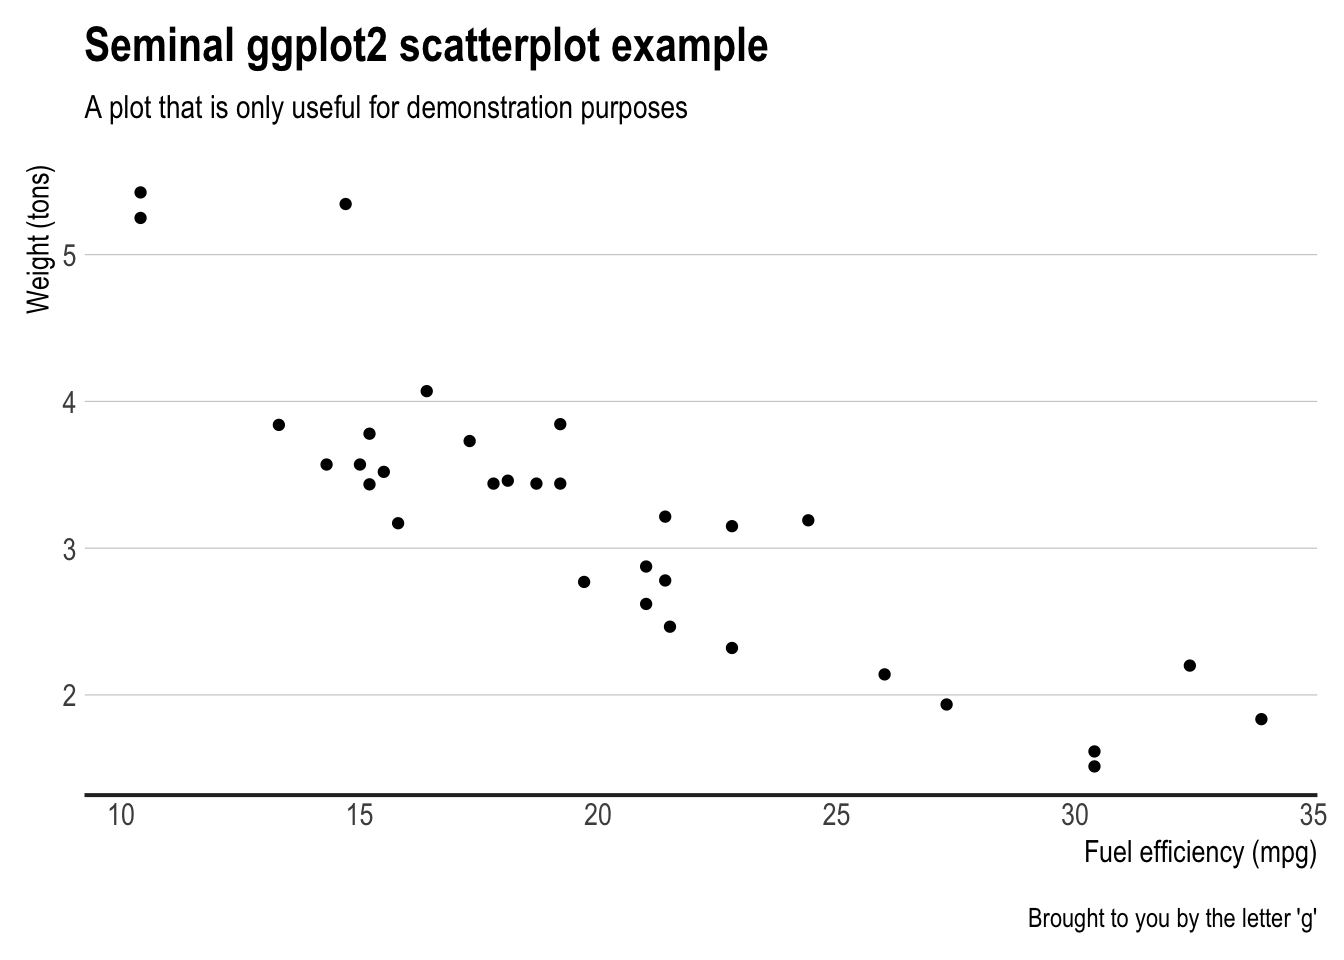
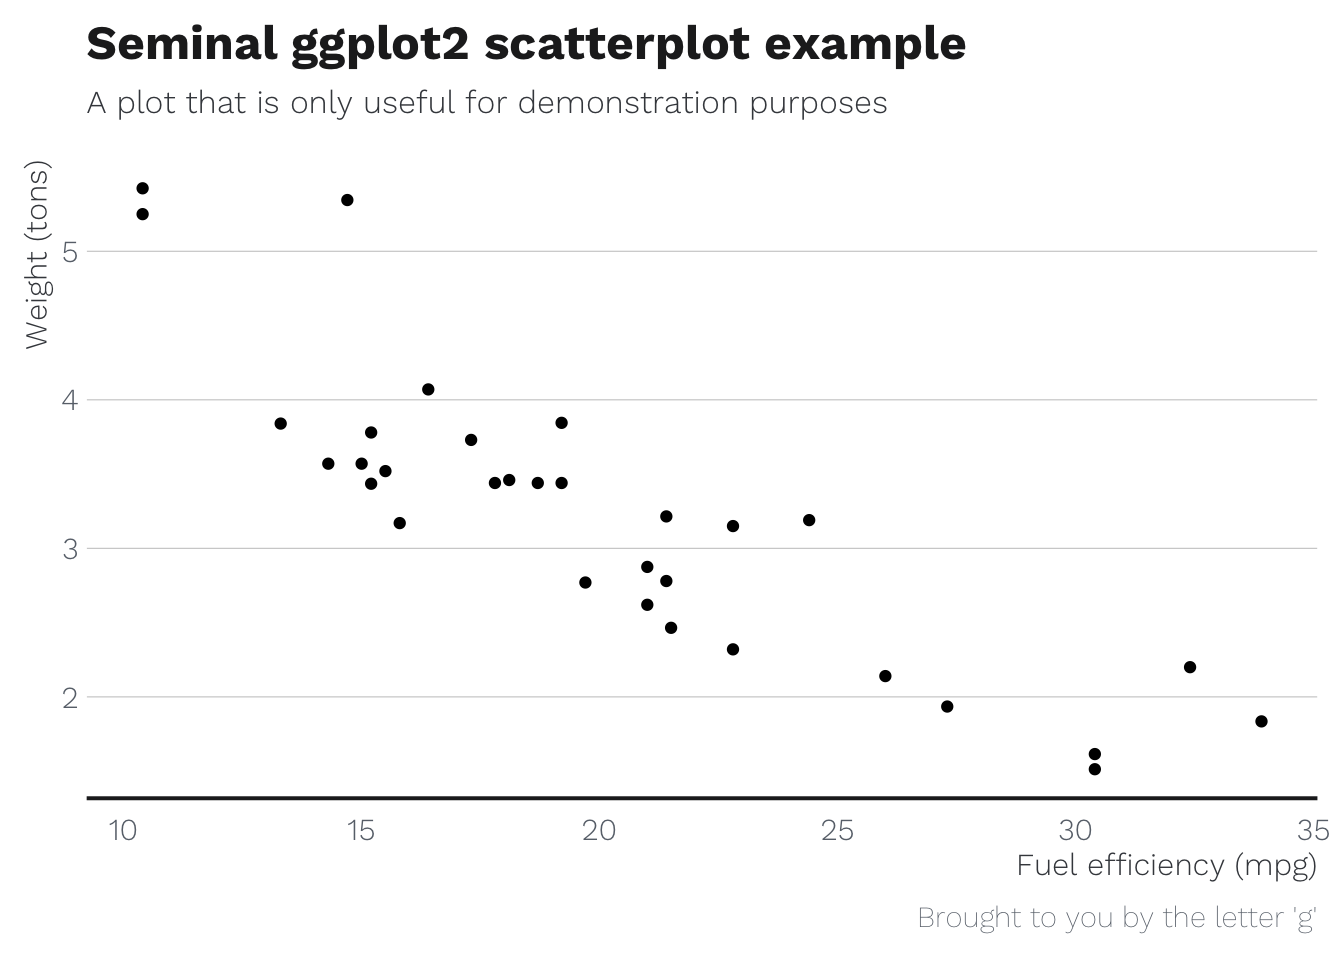
tweak axis text x margin

diff --git a/README.md b/README.md
@@ -31,22 +31,7 @@ library(ewenthemes)
 library(ggplot2)
 ```
 
-### Base theme (Arial Narrow)
-
-``` r
-ggplot(mtcars, aes(mpg, wt)) +
-  geom_point() +
-  labs(x="Fuel efficiency (mpg)", y="Weight (tons)",
-       title="Seminal ggplot2 scatterplot example",
-       subtitle="A plot that is only useful for demonstration purposes",
-       caption="Brought to you by the letter 'g'") + 
-  # apply theme
-  theme_ewen()
-```
-
-<img src="README_figs/README-unnamed-chunk-5-1.png" width="672" />
-
-### Work Sans
+### Base theme + Work Sans
 
 ``` r
 ggplot(mtcars, aes(mpg, wt)) +
@@ -59,4 +44,4 @@ ggplot(mtcars, aes(mpg, wt)) +
   theme_ewen_ws()
 ```
 
-<img src="README_figs/README-unnamed-chunk-6-1.png" width="672" />
+<img src="README_figs/README-unnamed-chunk-5-1.png" width="672" />
